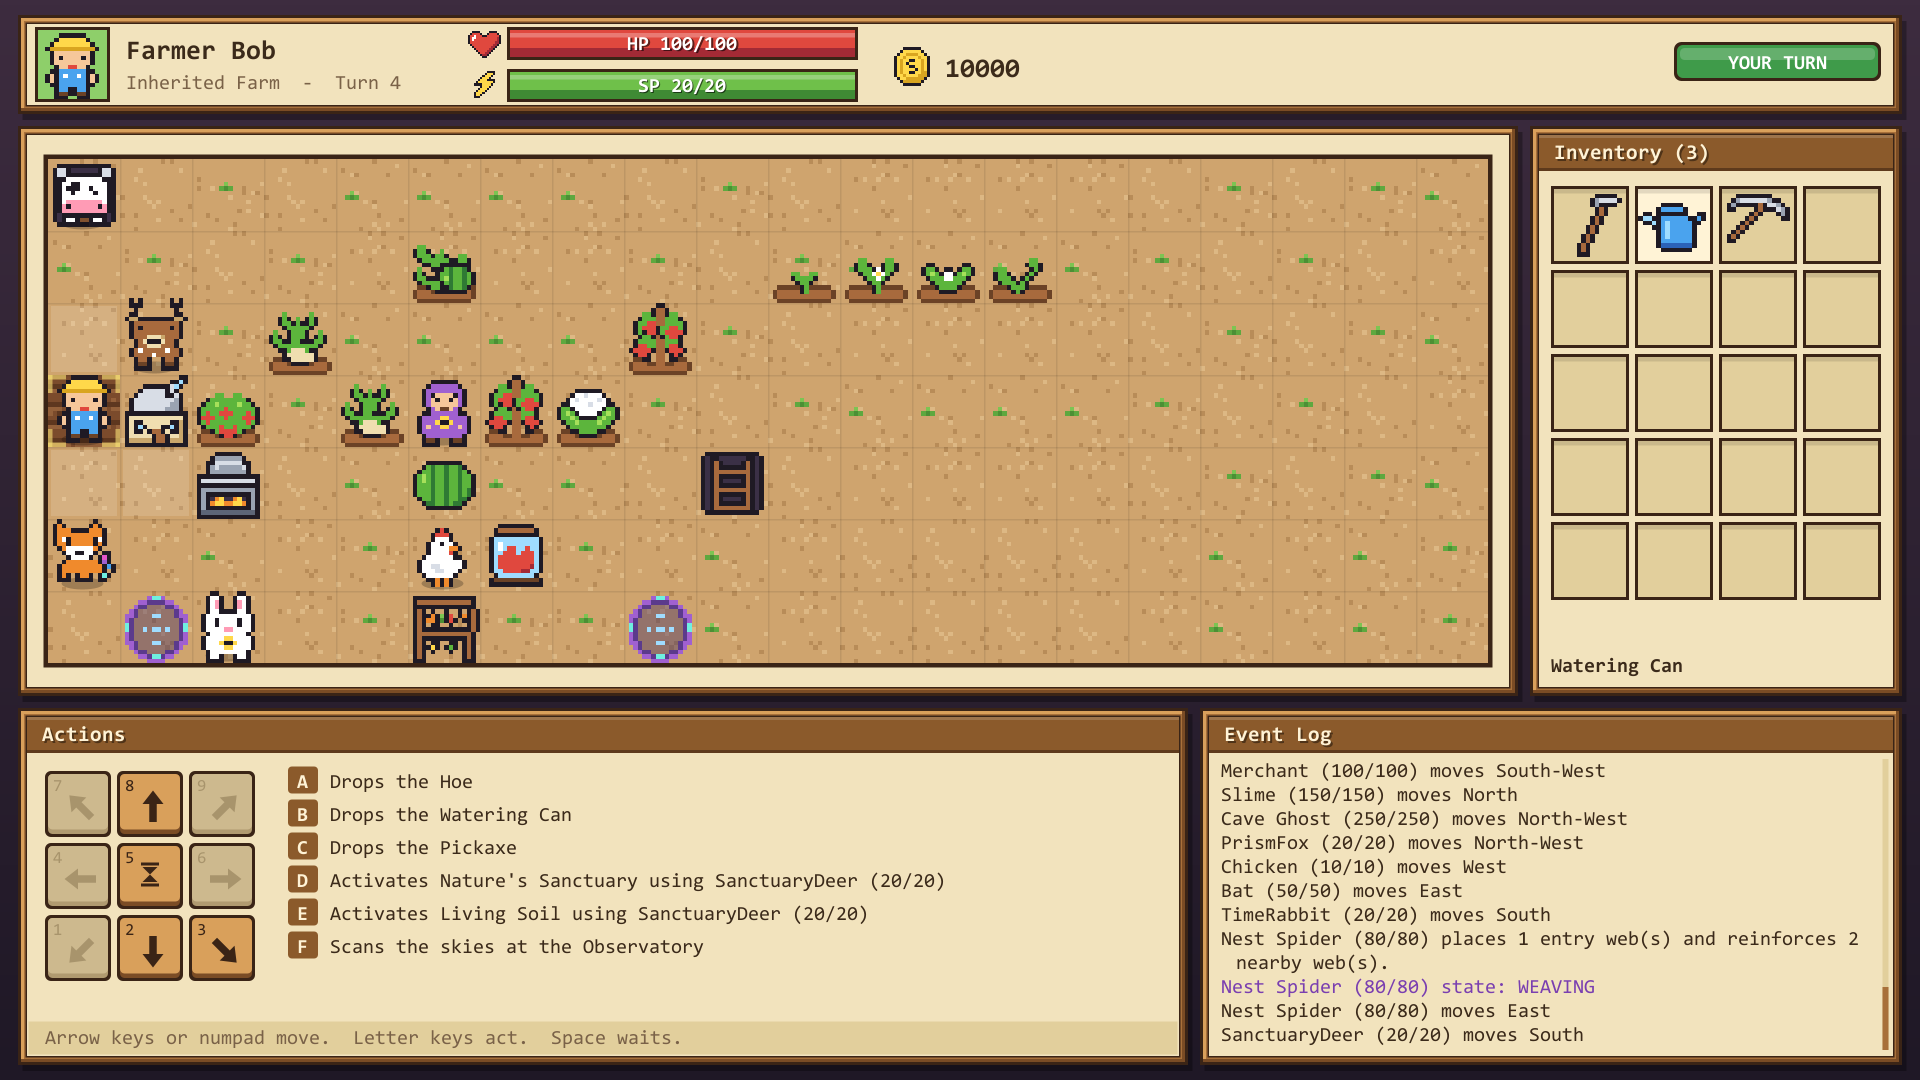
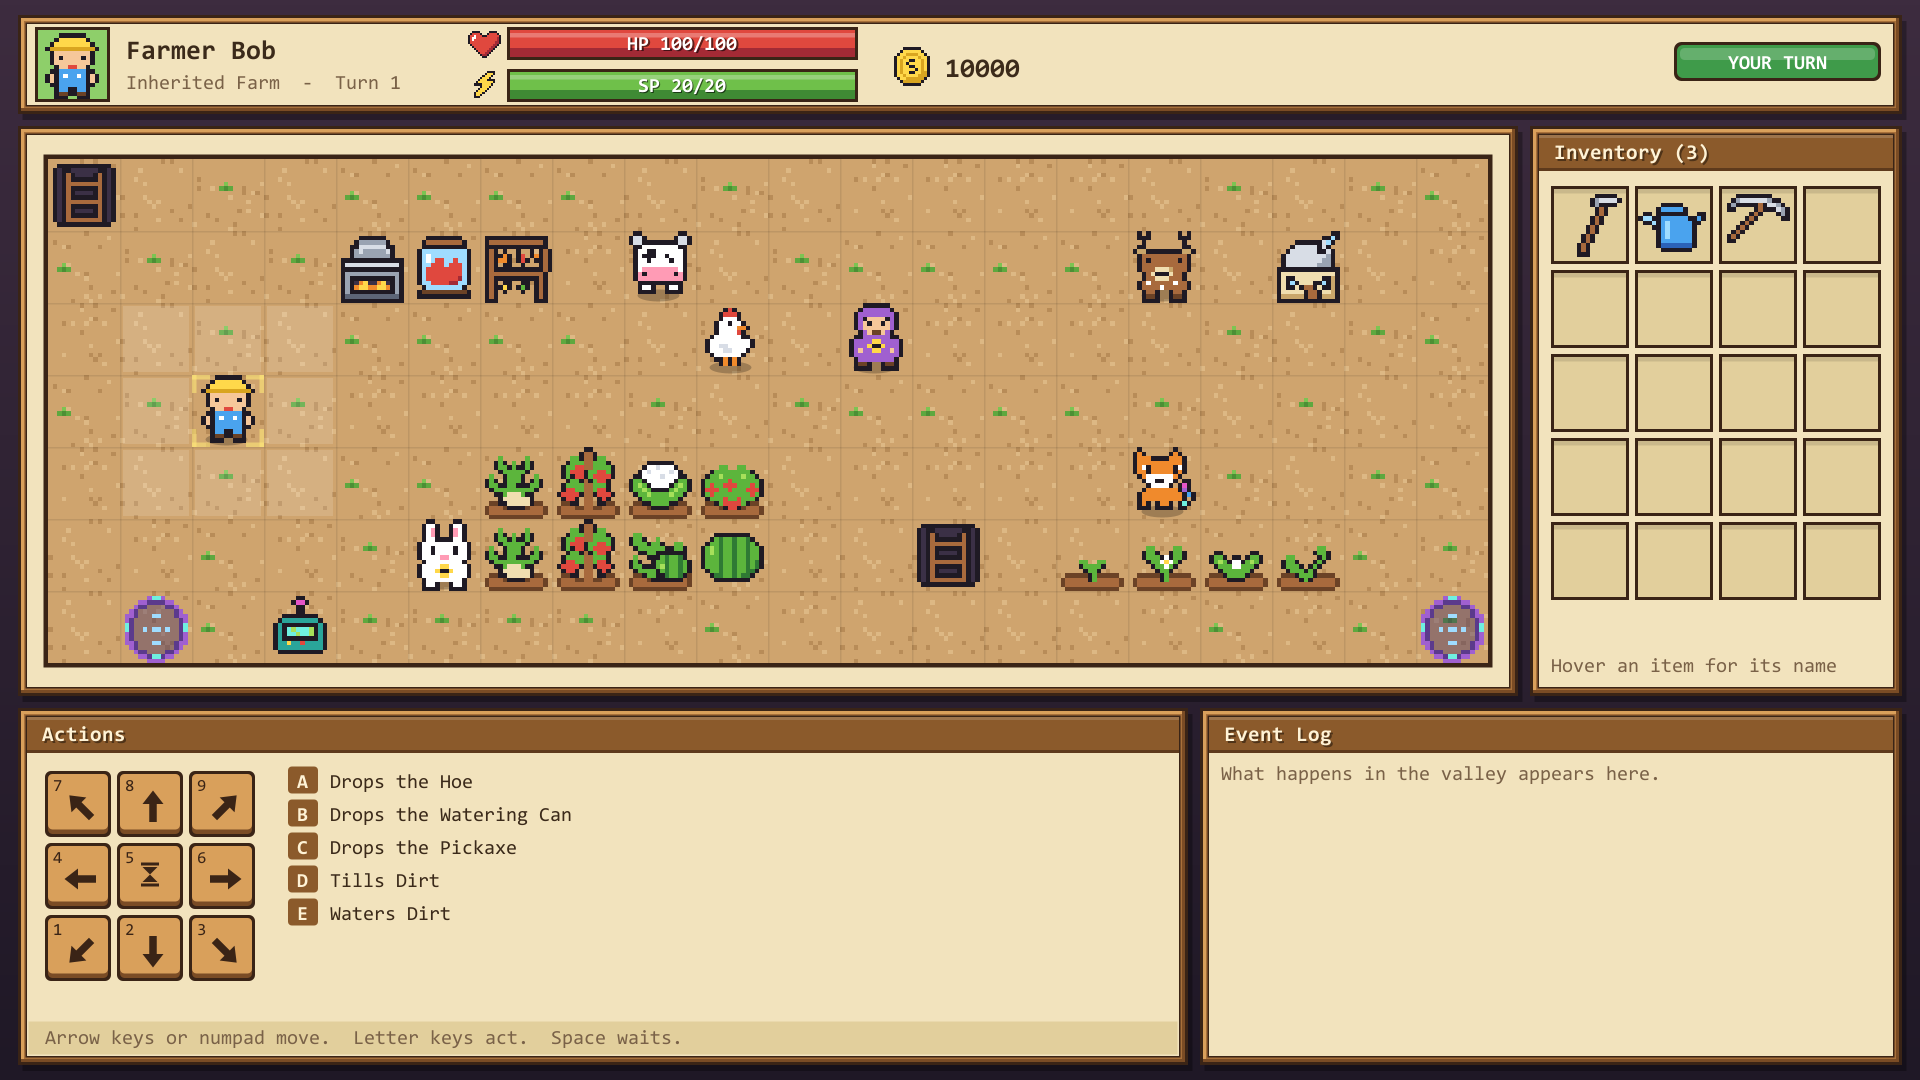
Update README for the new farm layout
Replace the main Farm screenshot with one of the new starting layout and
correct the documented Observatory location.

diff --git a/README.md b/README.md
@@ -537,7 +537,7 @@ The Observatory is displayed as `O` and is located beside the Farmer's starting 
 | External API | NASA Near-Earth Object Web Service (NeoWs) |
 | API endpoint | `https://api.nasa.gov/neo/rest/v1/feed` |
 | Observatory symbol | `O` |
-| Observatory location | Inherited Farm, (1, 3) |
+| Observatory location | Inherited Farm, (17, 1) |
 | Observatory accessibility | Impassable; activated from an adjacent tile |
 | Scan stamina cost | 3 stamina |
 | Scan requirement | Farmer must be adjacent to the Observatory |
